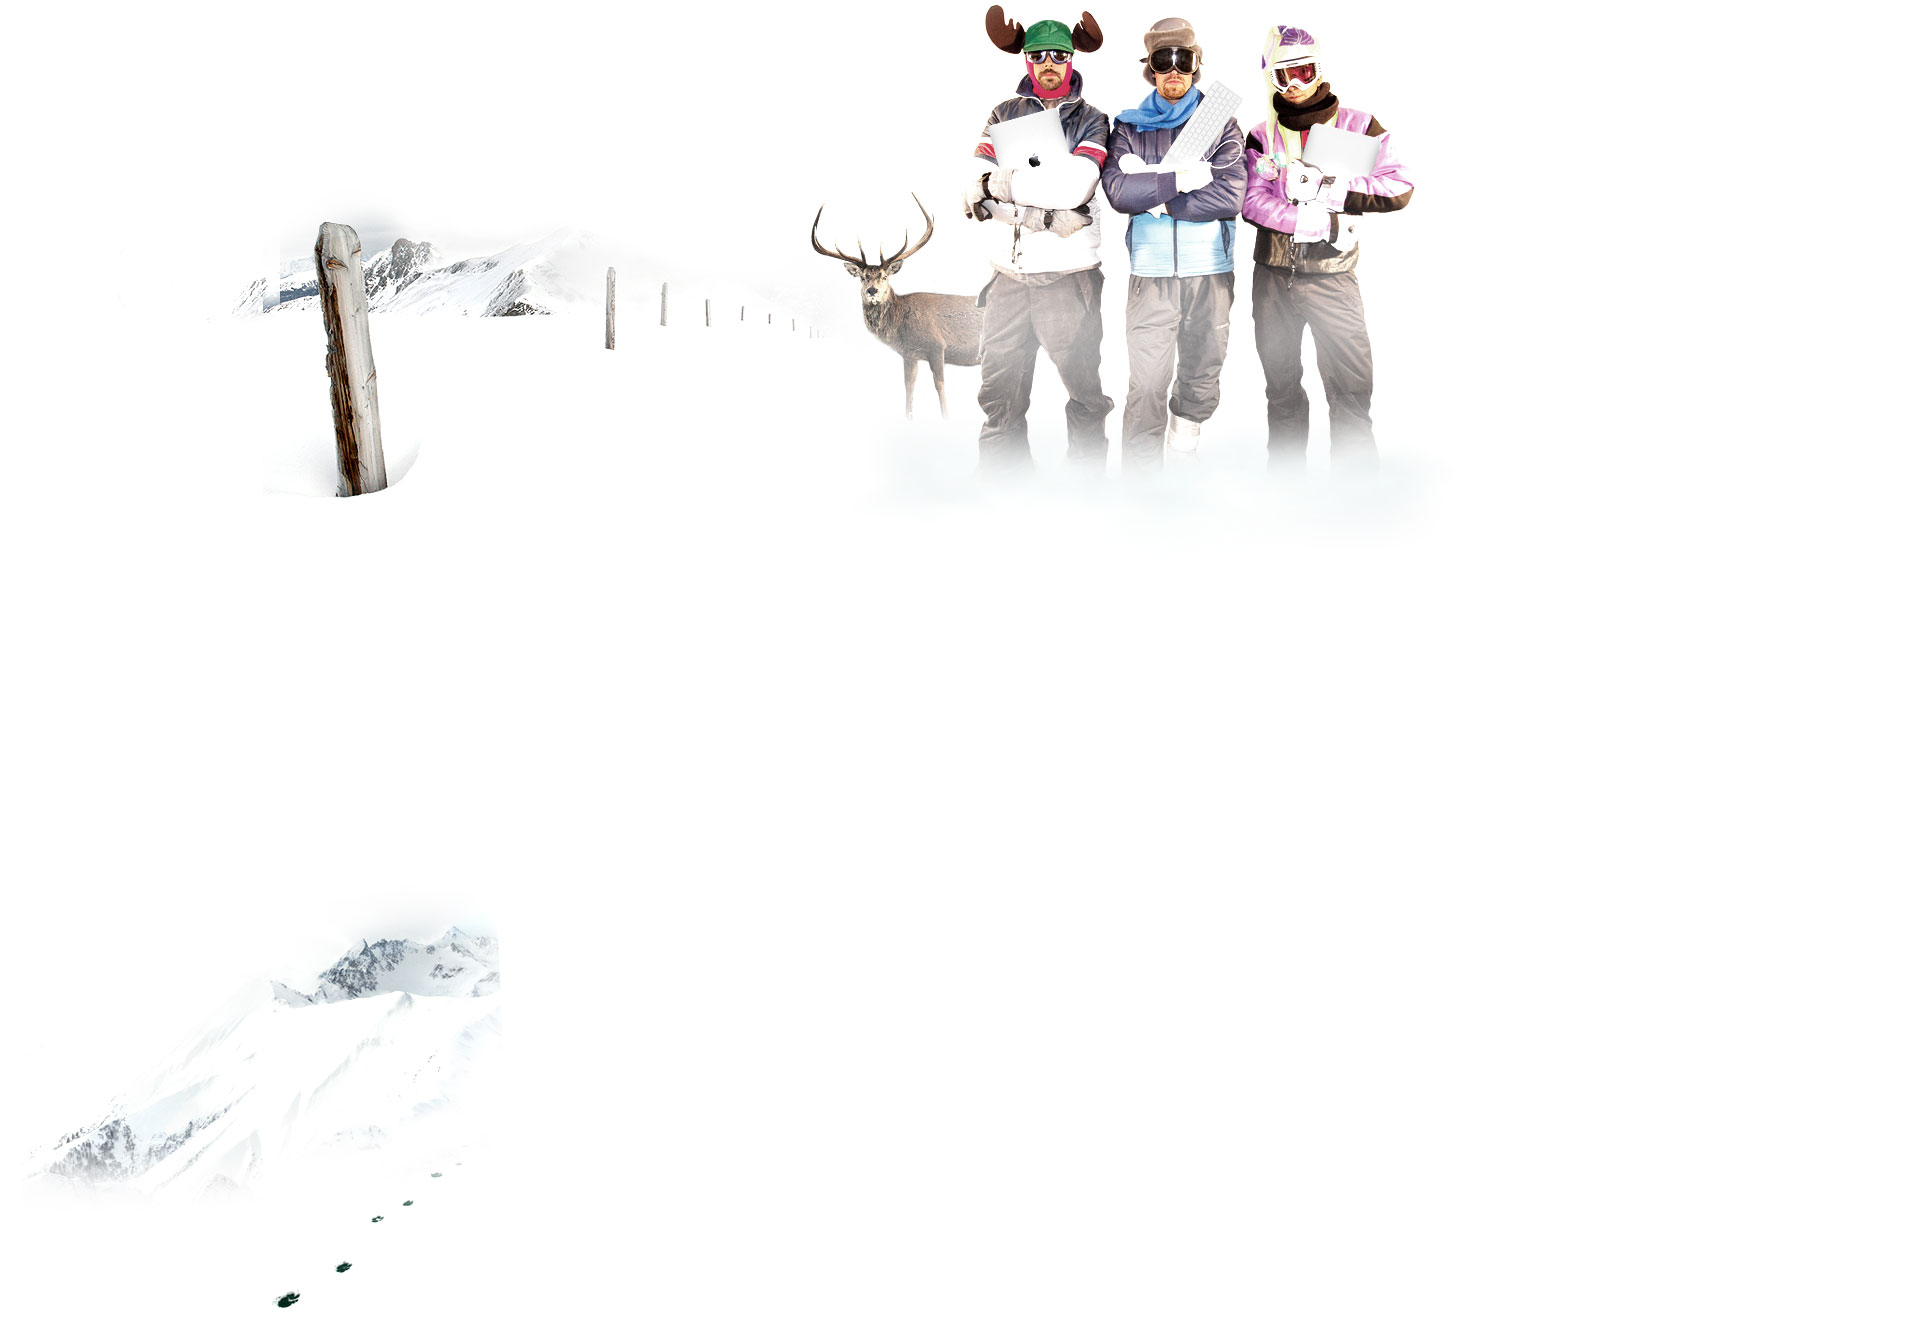
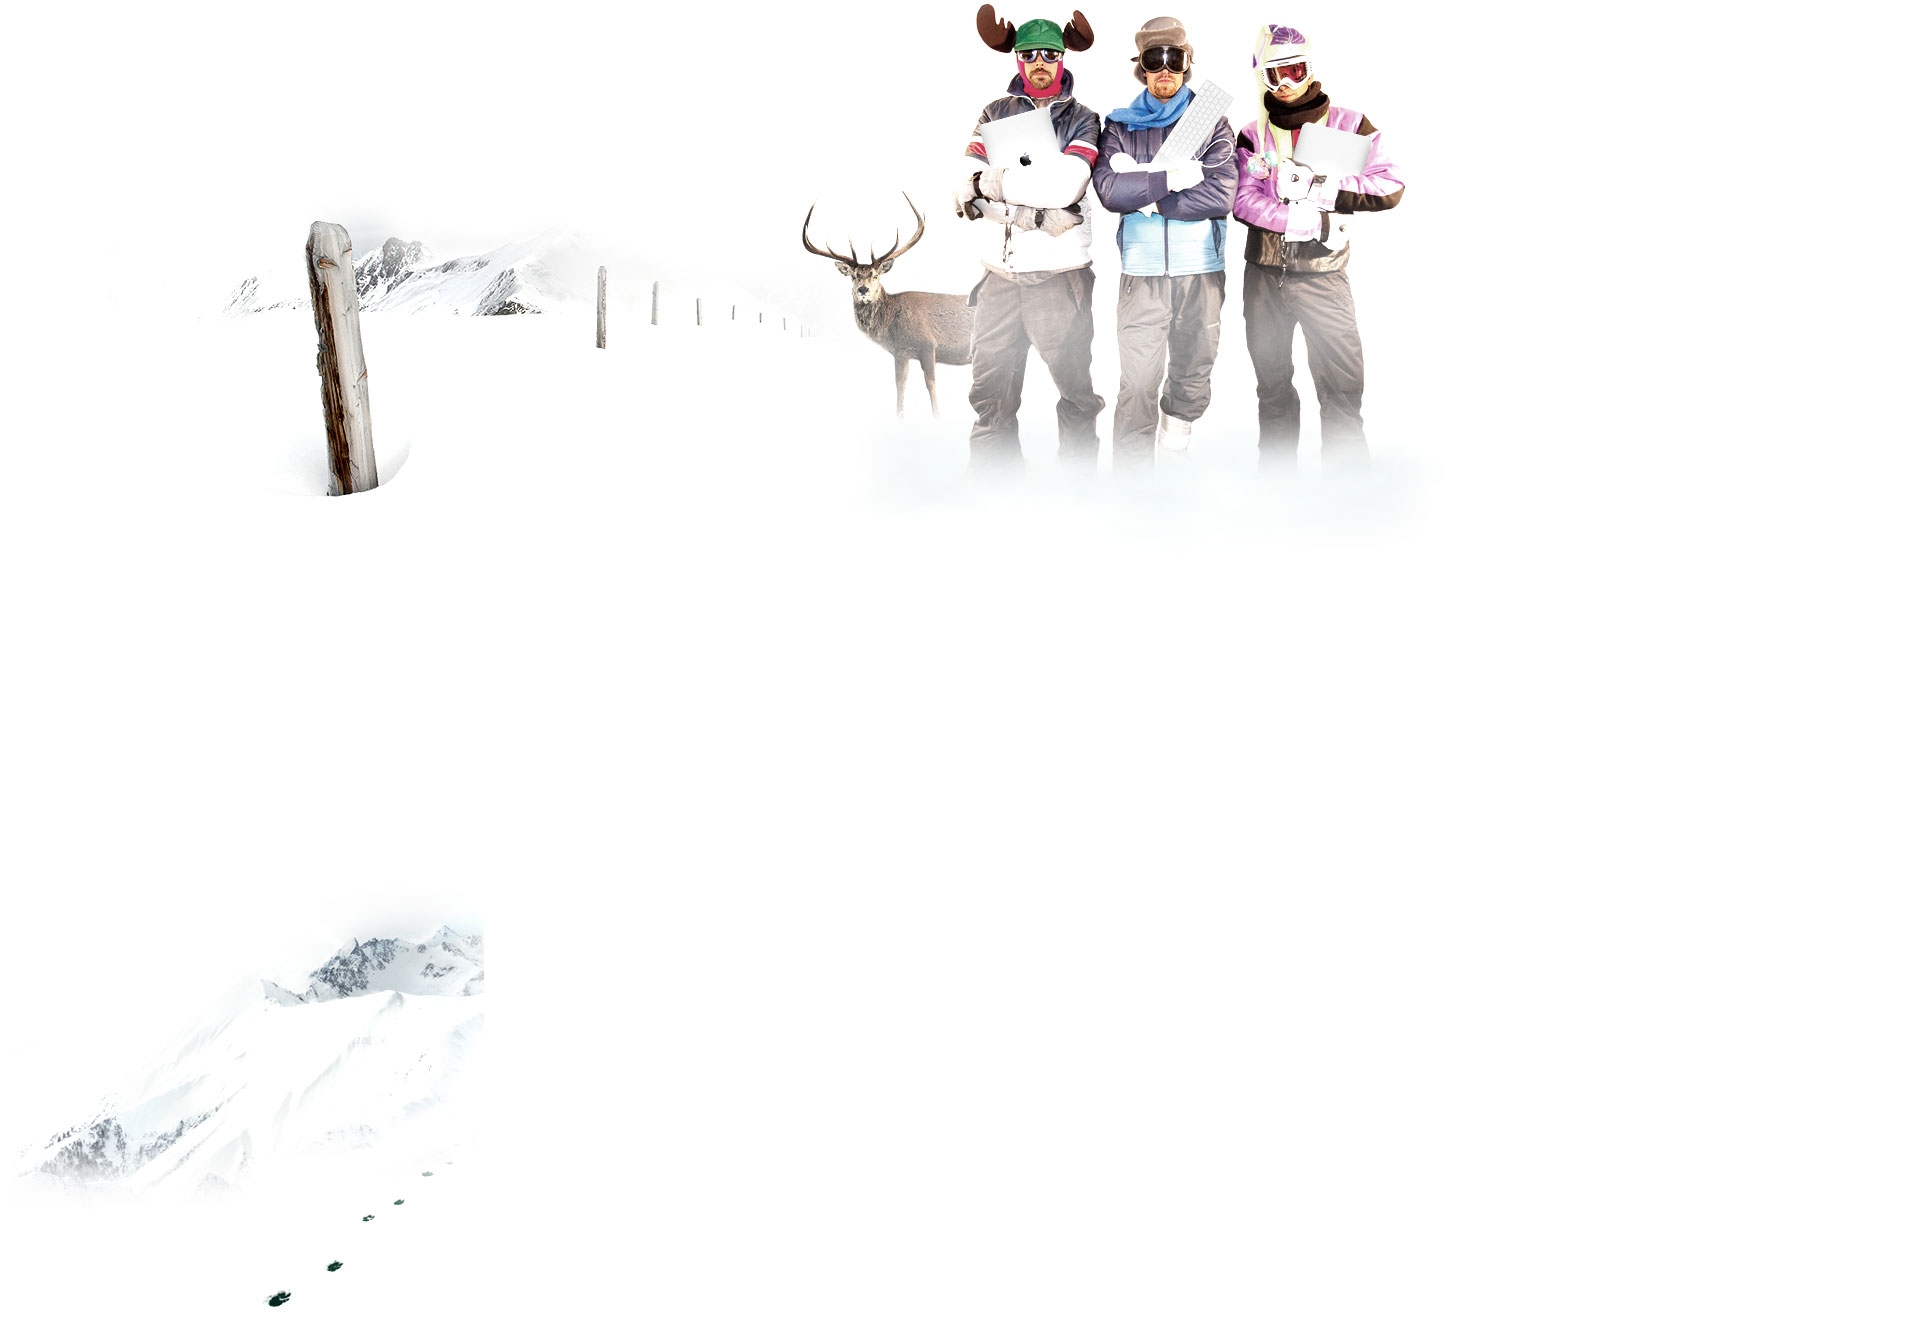
essai sans footer

diff --git a/web/assets/front/css/screen.css b/web/assets/front/css/screen.css
@@ -1,15 +1,14 @@
-/* GLOBALS */
 html, body {
-    height: 100%;
+    min-height: 100%;
 }
 body {
     min-width: 960px;
     color: #0a0a0a;
-    background-color: #0a0a0a;
     margin: 0;
     padding: 0;
     font-family: Helvetica, Arial, sans-serif;
     font-size: 14px;
+    background-repeat: no-repeat;
 }
 h1, h2, h3, h4, h5, h6 {
     font-family: Lato, sans-serif;
@@ -43,15 +42,13 @@ a:hover {
 .wrapper {
     position: relative;
     padding: 1px 0;
-    background-color: #fff;
-    background-repeat: no-repeat;
 }
 /* HEADER */
 header {
     position: relative;
     z-index: 100;
     height: 180px;
-    background: url(../images/sky_pattern.jpg) left 40px repeat-x;
+    background: url(../images/sky_pattern.jpg) #0a0a0a left 40px repeat-x;
 }
 header nav {
     width: 860px;
@@ -180,9 +177,9 @@ section.standard li {
     background:  url(../images/sprites.png) 0 -143px no-repeat;
 }
 /* HOMEPAGE */
-.home .wrapper {
+body.home {
     background-image: url(../images/home.jpg);
-    background-position: center top;
+    background-position: center 180px;
 }
 .home div.split-3 img#mask-image {
     position: absolute;
@@ -251,6 +248,9 @@ section.standard li {
 .home section.secondary {
     font-size: 12px;
     line-height: 16px;
+}
+.home section.secondary img {
+    margin-top: 15px;
 }
 .home section.secondary h2 {
     margin: 0;
@@ -330,20 +330,24 @@ section.standard li {
     line-height: 16px;
 }
 /* SERVICES */
-.services .wrapper {
-    min-height: 784px;
+body.services {
     background-image: url(../images/services.jpg);
     background-position: bottom center;
+}
+.services .wrapper {
+    min-height: 801px;
 }
 .services section.main {
     margin-top: 100px;
     padding-right: 550px;
 }
 /* COMPANY AND CONTACT */
-.company .wrapper {
-    min-height: 647px;
+body.company {
     background-image: url(../images/company.jpg);
     background-position: center bottom;
+}
+.company .wrapper {
+    min-height: 981px;
 }
 .company h1.main-title,
 .contact h1.main-title {
@@ -355,7 +359,7 @@ section.standard li {
     width: 480px;
 }
 .company h1.main-title {
-    top: 50px;
+    top: 140px;
 }
 .contact h1.main-title {
     top: 80px;
@@ -374,14 +378,14 @@ section.standard li {
     background: url(../images/sprites.png) right -171px no-repeat;
 }
 .company h2#mountain {
-    top: -50px;
+    top: 40px;
 }
 .contact h2#mountain {
     top: -20px;
 }
 /* COMPANY */
 .company section.main {
-    margin-top: 150px;
+    margin-top: 220px;
     padding-left: 500px;
 }
 .company blockquote {
@@ -394,16 +398,18 @@ section.standard li {
     margin: 0 0 0 -490px;
     padding: 15px 125px 15px 50%;
     position: absolute;
-    top: 275px;
+    bottom: 130px;
     right: 50%;
     width: 350px;
     height: 95px;
     background: url(../images/headings.png) right -95px no-repeat;
 }
 /* CONTACT */
-.contact .wrapper {
+body.contact {
     background-image: url(../images/contact.jpg);
     background-position: center bottom;
+}
+.contact .wrapper {
     min-height: 859px;
 }
 .contact section.main {
@@ -419,9 +425,11 @@ section.standard li {
     margin: 30px 0;
 }
 /* TEAM */
-.team .wrapper{
-    background-position: center top;
+body.team {
+    background-position: center 180px;
     background-image: url(../images/team.jpg);
+}
+.team .wrapper {
     min-height: 871px;
 }
 .team section.main {
@@ -807,6 +815,7 @@ ul.social li.facebook a:hover {
 }
 /* FOOTER */
 footer {
+    display: none;
     border-top:  8px solid #8bc623;
     padding: 10px 0;
     color: #fff;

diff --git a/app/AppKernel.php b/app/AppKernel.php
@@ -21,8 +21,8 @@ class AppKernel extends Kernel
             new Symfony\Bundle\DoctrineFixturesBundle\DoctrineFixturesBundle(),
             new Snowcap\SiteBundle\SnowcapSiteBundle(),
             new Snowcap\AdminBundle\SnowcapAdminBundle(),
-            new Avalanche\Bundle\ImagineBundle\AvalancheImagineBundle(),
             new Snowcap\YamlFixturesBundle\SnowcapYamlFixturesBundle(),
+            new Liip\ImagineBundle\LiipImagineBundle(),
         );
 
         if (in_array($this->getEnvironment(), array('dev', 'test'))) {

diff --git a/app/autoload.php b/app/autoload.php
@@ -17,8 +17,8 @@ $loader->registerNamespaces(array(
     'Assetic'          => __DIR__.'/../vendor/assetic/src',
     'Metadata'         => __DIR__.'/../vendor/metadata/src',
     'Knp'              => __DIR__.'/../vendor/bundles',
+    'Liip'              => __DIR__.'/../vendor/bundles',
     'Imagine'          => __DIR__.'/../vendor/imagine/lib',
-    'Avalanche'          => __DIR__.'/../vendor/bundles',
 ));
 $loader->registerPrefixes(array(
     'Twig_Extensions_' => __DIR__.'/../vendor/twig-extensions/lib',
